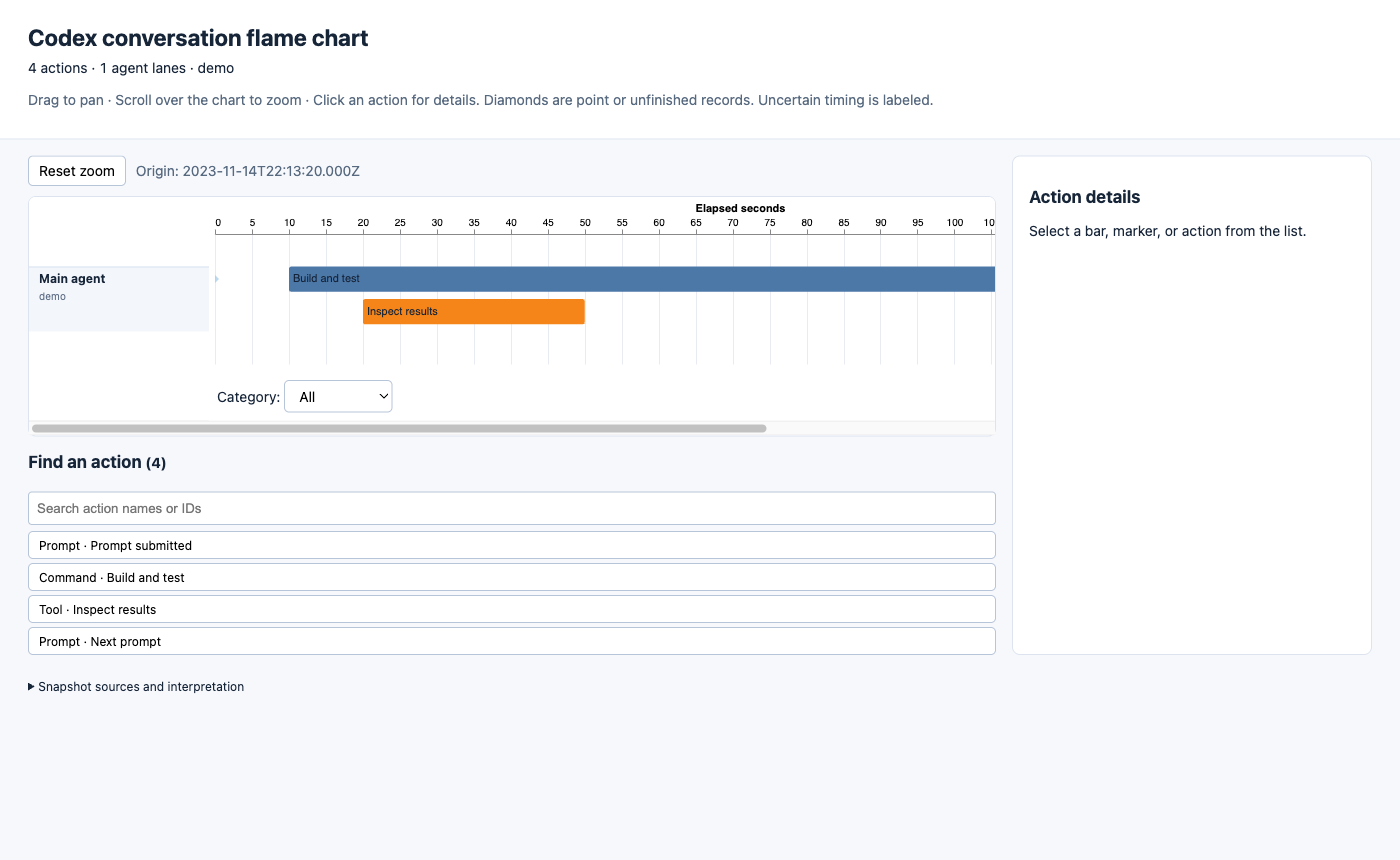
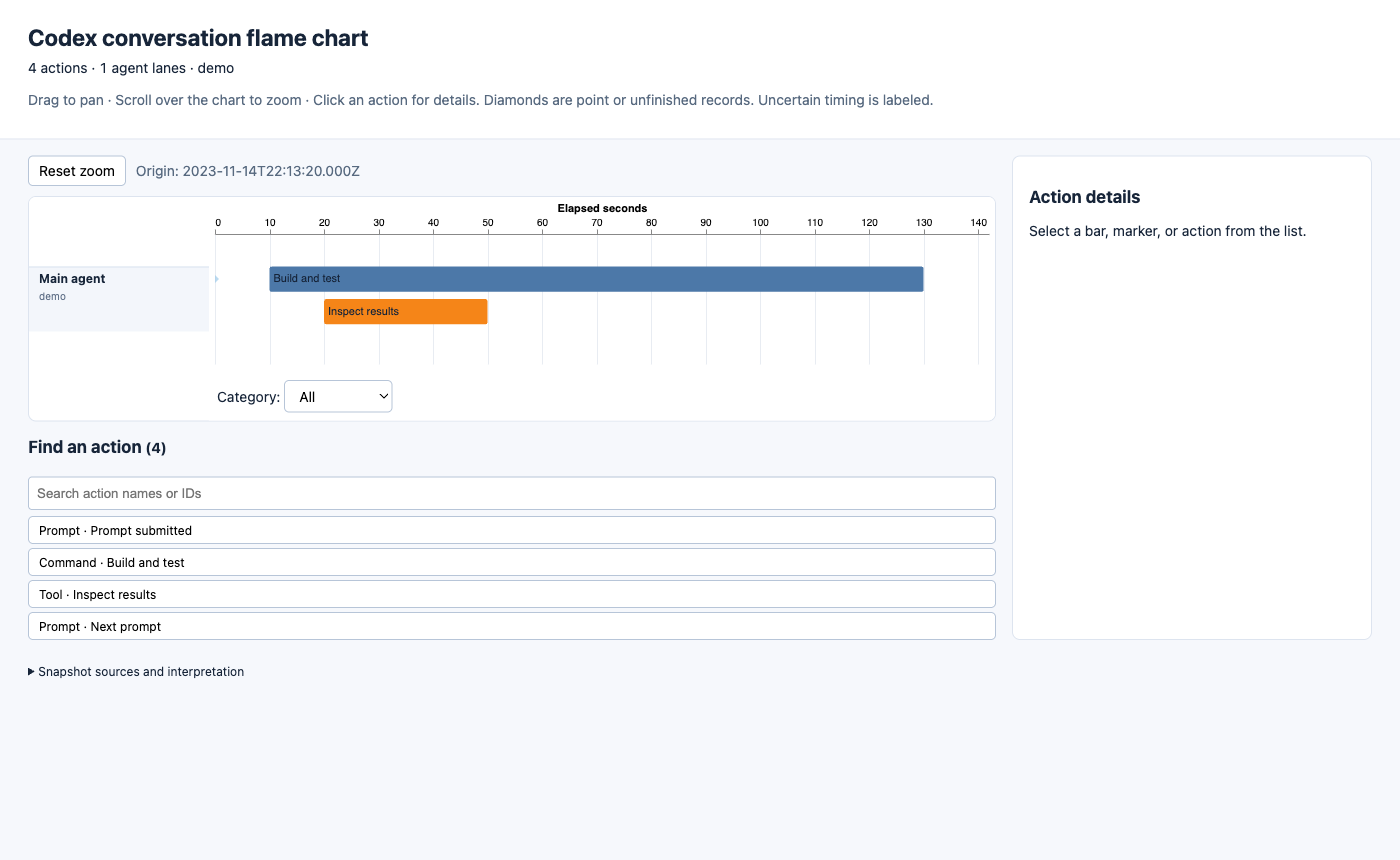
fix(codex): expand flame charts to fill available width

diff --git a/scripts/codex_trace/viewer.html b/scripts/codex_trace/viewer.html
@@ -4,7 +4,7 @@
 <meta charset="utf-8"><meta name="viewport" content="width=device-width, initial-scale=1">
 <title>Codex conversation flame chart</title>
 <style>
-:root{font-family:system-ui,sans-serif;color:#172539;background:#f6f8fc;font-size:14px}body{margin:0}header{padding:24px 28px 14px;background:white;border-bottom:1px solid #dde4ef}h1{font-size:23px;margin:0 0 8px}h2{font-size:17px}p{line-height:1.5}.muted{color:#586a80}#summary{font-variant-numeric:tabular-nums}button,select{font:inherit;padding:6px 10px;border:1px solid #b7c5d8;border-radius:5px;background:white;cursor:pointer}button:hover{background:#edf3fc}#notices{margin:16px 28px;padding:10px 16px;background:#fff5dc;border:1px solid #eac974;border-radius:6px}#notices:empty{display:none}main{display:grid;grid-template-columns:minmax(0,1fr) 360px;gap:16px;padding:16px 28px}#timeline-panel{min-width:0}#scroll{overflow:auto;max-height:72vh;background:white;border:1px solid #dde4ef;border-radius:8px}#timeline{display:flex;min-width:1260px;align-items:flex-start}#lanes{position:sticky;left:0;z-index:2;flex:0 0 180px;background:white;height:100%;font-size:12px}#lane-content{position:relative}.lane{position:absolute;left:0;right:0;border-top:1px solid #d9e2ef;padding:4px 10px;background:#f3f6fb;overflow:hidden;box-sizing:border-box}.lane strong{display:block;word-break:break-word}.lane small{display:block;margin-top:5px;color:#63738a}.vega-bindings{position:sticky;bottom:0;background:white;padding:8px}#details{border:1px solid #dde4ef;border-radius:8px;background:white;padding:16px;max-height:76vh;overflow:auto;overflow-wrap:anywhere}pre{white-space:pre-wrap;overflow-wrap:anywhere;font:12px/1.5 ui-monospace,monospace;background:#f5f7fa;padding:10px;border-radius:4px}details{margin:8px 0}summary{cursor:pointer}#actions{margin-top:15px}#action-list{max-height:210px;overflow:auto;display:grid;gap:4px}#action-list button{text-align:left;font-size:12px}#search{width:100%;box-sizing:border-box;padding:8px;margin:6px 0;border:1px solid #b7c5d8;border-radius:4px}#error{color:#a51f32}footer{padding:0 28px 22px;font-size:12px}#controls{display:flex;gap:10px;align-items:center;flex-wrap:wrap;margin-bottom:10px}@media(max-width:900px){main{grid-template-columns:1fr}#details{max-height:50vh}}
+:root{font-family:system-ui,sans-serif;color:#172539;background:#f6f8fc;font-size:14px}body{margin:0}header{padding:24px 28px 14px;background:white;border-bottom:1px solid #dde4ef}h1{font-size:23px;margin:0 0 8px}h2{font-size:17px}p{line-height:1.5}.muted{color:#586a80}#summary{font-variant-numeric:tabular-nums}button,select{font:inherit;padding:6px 10px;border:1px solid #b7c5d8;border-radius:5px;background:white;cursor:pointer}button:hover{background:#edf3fc}#notices{margin:16px 28px;padding:10px 16px;background:#fff5dc;border:1px solid #eac974;border-radius:6px}#notices:empty{display:none}main{display:grid;grid-template-columns:minmax(0,1fr) 360px;gap:16px;padding:16px 28px}#timeline-panel{min-width:0}#scroll{overflow:auto;max-height:72vh;background:white;border:1px solid #dde4ef;border-radius:8px}#timeline{display:flex;min-width:520px;align-items:flex-start}#chart{flex:1;min-width:0}#chart.vega-embed{padding-right:0}#lanes{position:sticky;left:0;z-index:2;flex:0 0 180px;background:white;height:100%;font-size:12px}#lane-content{position:relative}.lane{position:absolute;left:0;right:0;border-top:1px solid #d9e2ef;padding:4px 10px;background:#f3f6fb;overflow:hidden;box-sizing:border-box}.lane strong{display:block;word-break:break-word}.lane small{display:block;margin-top:5px;color:#63738a}.vega-bindings{position:sticky;bottom:0;background:white;padding:8px}#details{border:1px solid #dde4ef;border-radius:8px;background:white;padding:16px;max-height:76vh;overflow:auto;overflow-wrap:anywhere}pre{white-space:pre-wrap;overflow-wrap:anywhere;font:12px/1.5 ui-monospace,monospace;background:#f5f7fa;padding:10px;border-radius:4px}details{margin:8px 0}summary{cursor:pointer}#actions{margin-top:15px}#action-list{max-height:210px;overflow:auto;display:grid;gap:4px}#action-list button{text-align:left;font-size:12px}#search{width:100%;box-sizing:border-box;padding:8px;margin:6px 0;border:1px solid #b7c5d8;border-radius:4px}#error{color:#a51f32}footer{padding:0 28px 22px;font-size:12px}#controls{display:flex;gap:10px;align-items:center;flex-wrap:wrap;margin-bottom:10px}@media(max-width:900px){main{grid-template-columns:1fr}#details{max-height:50vh}}
 </style>
 <script>@@BUNDLE@@</script>
 </head>

diff --git a/tests/test_codex_flamechart.py b/tests/test_codex_flamechart.py
@@ -435,6 +435,19 @@ def test_offline_browser_interactions(home, tmp_path):
         page.goto(output.as_uri())
         page.wait_for_function("window.chartReady || window.chartError")
         assert not page.evaluate("window.chartError")
+        initial_width = page.evaluate('chartView.width()')
+        initial_zoom = page.evaluate('chartView.scale("x").domain()')
+        for width in (2200, 1000, 800, 1600):
+            page.set_viewport_size({"width": width, "height": 1000})
+            page.wait_for_function("""() => {
+                const plot = document.querySelector('#chart canvas').getBoundingClientRect();
+                const container = document.getElementById('scroll').getBoundingClientRect();
+                return Math.abs(plot.right - container.right) < 5;
+            }""")
+            assert page.evaluate('chartView.scale("x").domain()') == initial_zoom
+            if width == 2200:
+                assert page.evaluate('chartView.width()') > initial_width
+        assert page.evaluate("document.getElementById('scroll').scrollWidth <= document.getElementById('scroll').clientWidth + 2")
         assert page.locator(".lane").count() == 2
         assert "Incomplete data" in page.locator("#notices").inner_text()
         coordinates = page.evaluate(

diff --git a/scripts/codex_trace/render.py b/scripts/codex_trace/render.py
@@ -149,7 +149,11 @@ def chart_spec(report):
     chart = (
         alt.layer(bars, points, labels)
         .add_params(chosen, zoom)
-        .properties(width=1050, height=max(130, report["rows"] * 26))
+        .properties(
+            width="container",
+            height=max(130, report["rows"] * 26),
+            autosize=alt.AutoSizeParams(type="fit-x", contains="padding", resize=True),
+        )
         .configure_view(stroke=None)
         .configure_axis(
             labelFont="sans-serif", titleFont="sans-serif", gridColor="#e8ecf2"
